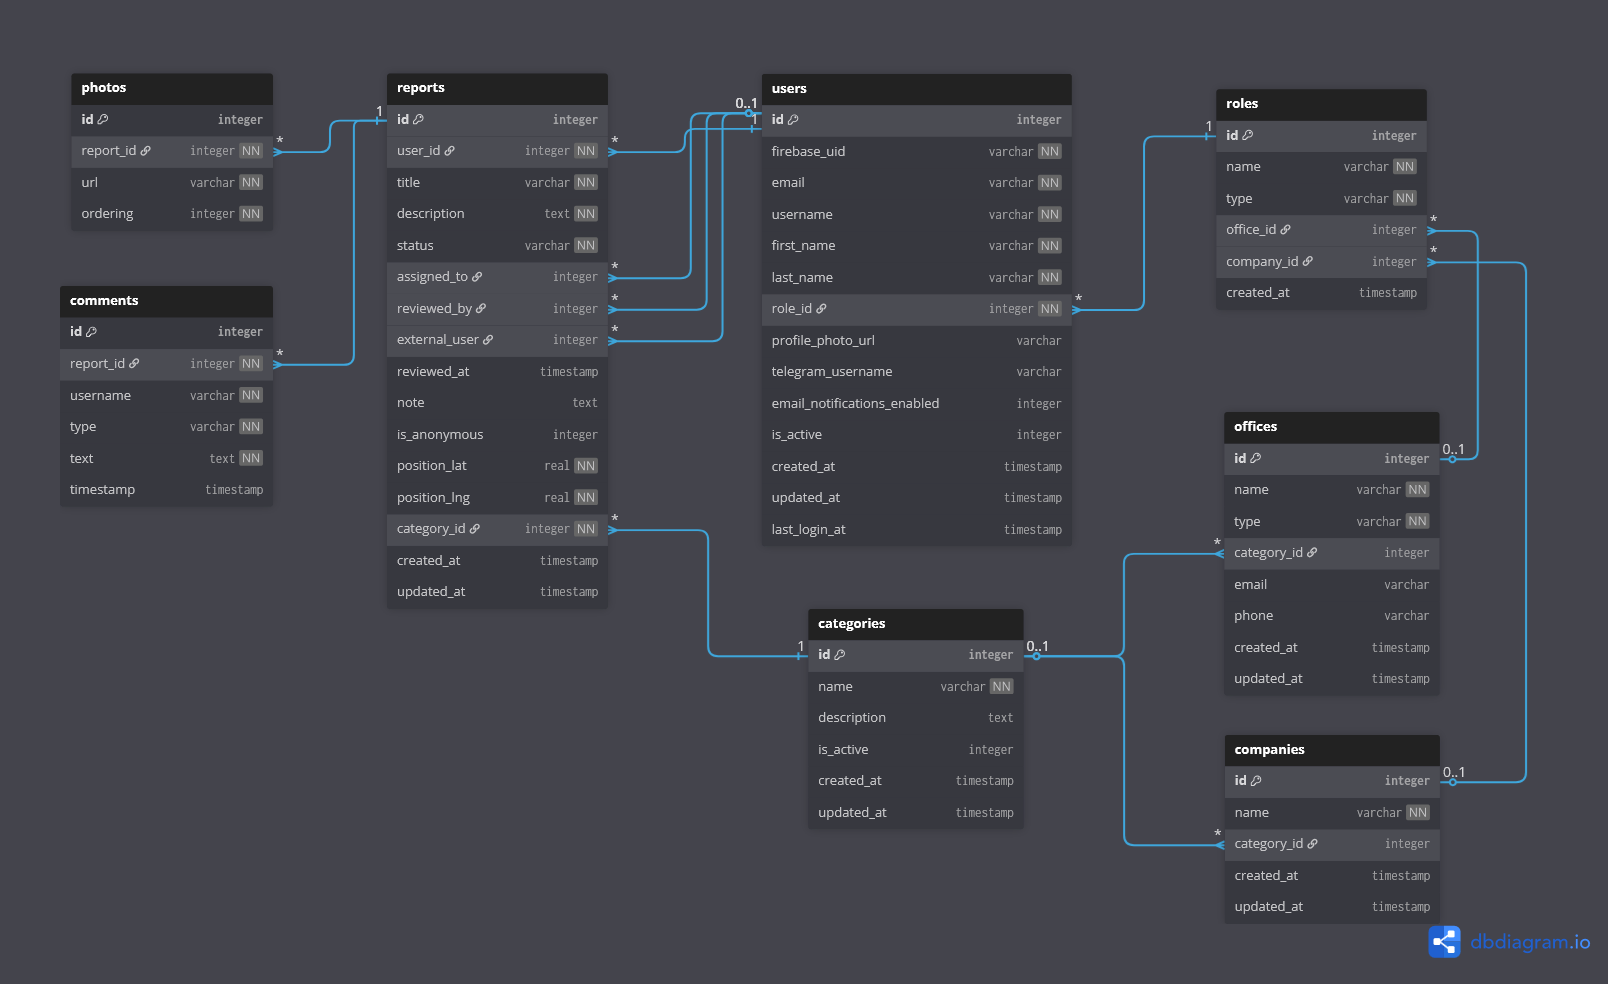
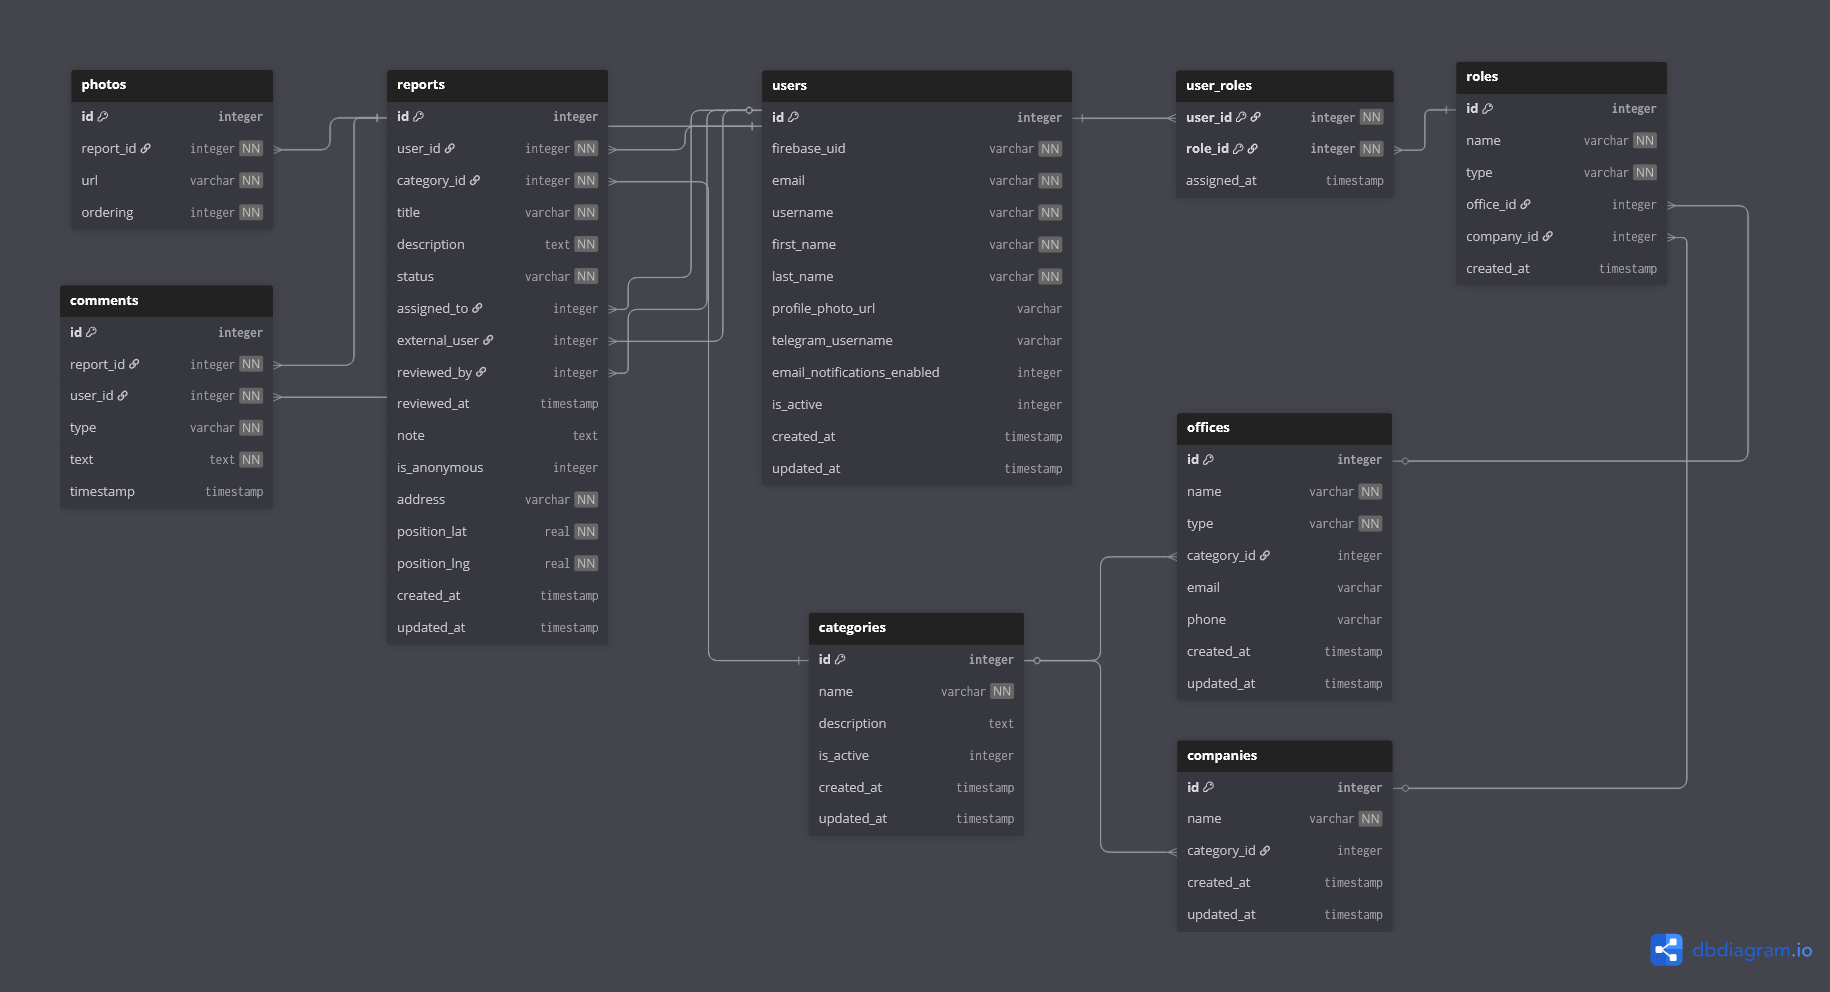
Updating Documentation

diff --git a/Back-end/tests/e2e/reportRoute.e2e.test.ts b/Back-end/tests/e2e/reportRoute.e2e.test.ts
@@ -170,6 +170,7 @@ describe("Reports E2E", () => {
         description: "This area near Porta Nuova has been neglected and many people use it as a urinal, can something be done about it.",
         status: ReportStatus.PendingApproval,
         assigned_to: null,
+        external_user: null,
         reviewed_by: null,
         reviewed_at: null,
         note: null,
@@ -274,7 +275,6 @@ describe("Reports E2E", () => {
         .field("position_lat", payload.position_lat.toString())
         .field("position_lng", payload.position_lng.toString())
         .attach("photos", testImg);
-
       expect(res.status).toBe(201);
       expect(res.body.report).toBeDefined();
       expect(res.body.report.photos).toHaveLength(1);

diff --git a/Back-end/src/routes/reports.routes.ts b/Back-end/src/routes/reports.routes.ts
@@ -140,7 +140,6 @@ router.get("/reports",
 )
 
 
-
 //POST /reports
 router.post("/reports",
     verifyFirebaseToken([ROLES.CITIZEN]),

diff --git a/Back-end/README.md b/Back-end/README.md
@@ -54,11 +54,13 @@ npm test
 The project uses **SQLite** with the following structure:
 
 ### Tables
-- **users** - User accounts with Firebase authentication (includes role_id)
-- **roles** - User roles (citizen, operators, admin)
-- **offices** - Organization and technical offices
-- **categories** - Issue report categories
-- **category_offices** - Category-office assignments (many-to-many)
+- **users** — User accounts with Firebase authentication  
+- **roles** — Predefined roles (citizen, operator, admin)  
+- **user_roles** — Maps users to their assigned roles (many-to-many)  
+- **offices** — Organizational and technical offices  
+- **categories** — Report issue categories  
+- **category_offices** — Assigns categories to offices (many-to-many)
+
 
 ### Default Data
 The database is automatically seeded with:
@@ -83,13 +85,11 @@ Each `tech_officer` role points to one of the offices above (see `seedDefaultRol
 
 ## API Endpoints
 
-### Health Check
-
-- **GET** `/health` - Returns the health status of the server
-
 ### Reports
 
 **GET `/reports/map`**
+
+Return all the reports visible in the map (approved reports)
 
 * **Request Headers:** None
 
@@ -98,26 +98,26 @@ Each `tech_officer` role points to one of the offices above (see `seedDefaultRol
 * **Success Response (200 OK):**
 ```json
 "reports": [
-        {
-            "id": 1,
-            "title": "Problem with street illumination",
-            "reporterName": "John Doe",
-            "reporterUsername": "johndoee",
-            "position": {
-                "lat": 45.4642,
-                "lng": 9.19
-            }
-        },
-        {
-            "id": 2,
-            "title": "Holes in the street",
-            "reporterName": "Jane Smith",
-            "reporterUsername": "janesmithh",
-            "position": {
-                "lat": 45.465,
-                "lng": 9.191
-            }
-        }
+  {
+      "id": 1,
+      "title": "Problem with street illumination",
+      "reporterName": "John Doe",
+      "reporterUsername": "johndoee",
+      "position": {
+          "lat": 45.4642,
+          "lng": 9.19
+      }
+  },
+  {
+      "id": 2,
+      "title": "Holes in the street",
+      "reporterName": "Jane Smith",
+      "reporterUsername": "janesmithh",
+      "position": {
+          "lat": 45.465,
+          "lng": 9.191
+      }
+  }
 ]
 ```
 
@@ -137,6 +137,7 @@ Each `tech_officer` role points to one of the offices above (see `seedDefaultRol
 
 **GET `/reports/:reportId`**
 
+Return the report with id equal to `reportId`
 * **Request Headers:** 
   
 ```http
@@ -147,16 +148,26 @@ Authorization: Bearer <firebase-token>
 
 * **Success Response (200 OK):**
 ```json
-        {
-            "id": 1,
-            "title": "Neglected street corner",
-            "description": "This area near Porta Nuova has been neglected and many people use it as a urinal, can something be done about it.",
-            "user_id": 1,
-            "address": "Via Paolo Sacchi Santa Maria delle Grazie, 10125 Torino",
-            "position_lat": 45.06080,
-            "position_lng": 7.67613,
-            "status": "pending_approval"
-        }
+{
+  "id": 10,
+  "user_id": 1,
+  "category_id": 2,
+  "title": "Broken street light",
+  "description": "The street light is broken and needs urgent repair.",
+  "status": "pending_approval",
+  "assigned_to": null,
+  "reviewed_by": null,
+  "reviewed_at": null,
+  "external_user": null,
+  "note": null,
+  "is_anonymous": false,
+  "address": "Via camposanto 3",
+  "position_lat": 45.0632,
+  "position_lng": 7.6835,
+  "created_at": "2025-11-24 18:10:20",
+  "updated_at": "2025-11-24 18:10:20",
+  "photos": [{ "url": "https://res.cloudinary.com/", "ordering": 1 }]
+}
 ```
 
 * **Error Response (404 Not Found):**
@@ -192,6 +203,7 @@ Authorization: Bearer <firebase-token>
 
 **POST `/reports`**
 
+Create a new report in the DB
 * **Request Headers:**
 
 ```http
@@ -220,30 +232,34 @@ Authorization: Bearer <firebase-token>
 ```json
 {
   "report": {
-        "id": 10,
-        "user_id": 1,
-        "category_id": 2,
-        "title": "\"Broken street light on 5th avenue\"",
-        "description": "\"The street light on 5th avenue is broken and needs urgent repair.\"",
-        "status": "pending_approval",
-        "assigned_to": null,
-        "reviewed_by": null,
-        "reviewed_at": null,
-        "note": null,
-        "is_anonymous": false,
-        "address": "Via camposanto 3",
-        "position_lat": 45.0632,
-        "position_lng": 7.6835,
-        "created_at": "2025-11-24 18:10:20",
-        "updated_at": "2025-11-24 18:10:20",
-        "photos": [
-            {
-                "url": "https://res.cloudinary.com/di9n3y9dd/raw/upload/v1764007820/Participium/izvuzpkmk2yybjfxphwb",
-                "ordering": 1
-            }
-        ]
-    }
+    "id": 1,
+    "user": {
+      "id": 10,
+      "complete_name": "Albert Mug",
+      "username": "operator-urban"
+    },
+    "category": {
+      "id": 1,
+      "name": "Water Supply – Drinking Water"
+    },
+    "title": "Test Report",
+    "description": "Test report description",
+    "status": "pending_approval",
+    "is_anonymous": false,
+    "address": "Test address",
+    "position_lat": 40.7128,
+    "position_lng": -74.006,
+    "created_at": "2025-12-20 16:53:29",
+    "updated_at": "2025-12-20 16:53:29",
+    "photos": [
+      {
+        "url": "https://example.com/photo1.jpg",
+        "ordering": 1
+      }
+    ]
+  }
 }
+
 ```
 
 * **Error Response (400 Bad Request - Validation errors):**
@@ -251,7 +267,8 @@ Authorization: Bearer <firebase-token>
 ```json
 {
   "errors": [
-    { "msg": "title is required", "param": "title", "location": "body" }
+    "Title is required",
+    "Description is required"
   ]
 }
 ```
@@ -266,6 +283,7 @@ Authorization: Bearer <firebase-token>
 
 **GET `/reports`**
 
+Return all the reports
 * **Request Headers:** 
 ```http
 Authorization: Bearer <firebase-token>
@@ -280,26 +298,25 @@ status: pending_approval, assigned, in_progress, suspended, rejected, resolved
 
 * **Success Response (200 OK):**
 ```json
-"reports": [
-        {
-        "id": 10,
-        "user_id": 1,
-        "category_id": 2,
-        "title": "\"Broken street light on 5th avenue\"",
-        "description": "\"The street light on 5th avenue is broken and needs urgent repair.\"",
-        "status": "pending_approval",
-        "assigned_to": null,
-        "reviewed_by": null,
-        "reviewed_at": null,
-        "note": null,
-        "is_anonymous": false,
-        "address": "Via camposanto 3",
-        "position_lat": 45.0632,
-        "position_lng": 7.6835,
-        "created_at": "2025-11-24 18:10:20",
-        "updated_at": "2025-11-24 18:10:20"
-    }
-]
+{
+"reports": [{
+    "id": 1,
+    "user_id": 1,
+    "category_id": 7,
+    "title": "Neglected street corner",
+    "description": "This area near Porta Nuova has been neglected.",
+    "status": "pending_approval",
+    "assigned_to": null,
+    "external_user": null,
+    "reviewed_by": null,
+    "reviewed_at": null,
+    "note": null,
+    "is_anonymous": 0,
+    "address": "Via Paolo Sacchi 11, 10125 Torino",
+    "position_lat": 45.0608,
+    "position_lng": 7.67613
+  }]
+}
 ```
 
 * **No Content Response (204 No Content):**
@@ -332,6 +349,8 @@ status: pending_approval, assigned, in_progress, suspended, rejected, resolved
 ```
 
 **POST `/reports/:reportId/comments`**
+
+Create a new comment for the report with id `ReportId` 
 
 * **Request Headers:**
 
@@ -382,6 +401,8 @@ Authorization: Bearer <firebase-token>
 ```
 
 **GET `/reports/:reportId/internal-comments`**
+
+Return all the comments with type `private` for the report with id  `ReportId` 
 
 * **Request Headers:** 
 ```http
@@ -440,6 +461,8 @@ Authorization: Bearer <firebase-token>
 ```
 **GET `/ext_maintainer/reports`**
 
+Return all the reports assign to user
+
 * **Request Headers:** 
 ```http
 Authorization: Bearer <firebase-token>
@@ -454,10 +477,11 @@ Authorization: Bearer <firebase-token>
         "id": 10,
         "user_id": 1,
         "category_id": 2,
-        "title": "\"Broken street light on 5th avenue\"",
-        "description": "\"The street light on 5th avenue is broken and needs urgent repair.\"",
+        "title": "Broken street light",
+        "description": "The street light is broken and needs urgent repair.",
         "status": "pending_approval",
-        "assigned_to": null,
+        "assigned_to": 10,
+        "external_maintainer":13,
         "reviewed_by": null,
         "reviewed_at": null,
         "note": null,
@@ -1185,9 +1209,9 @@ Authorization: Bearer <firebase-token>
 
 * **Field Usage Notes:**
 
-| Field      | When Required                        | Types                    |
-| ---------- | ------------------------------------ | ------------------------ |
-| status     | Always                               | ["assigned", "in_progress", "suspended"] |
+| Field  | When Required | Types                                    |
+| ------ | ------------- | ---------------------------------------- |
+| status | Always        | ["assigned", "in_progress", "suspended"] |
 
 
 * **Success Response (200 OK):**
